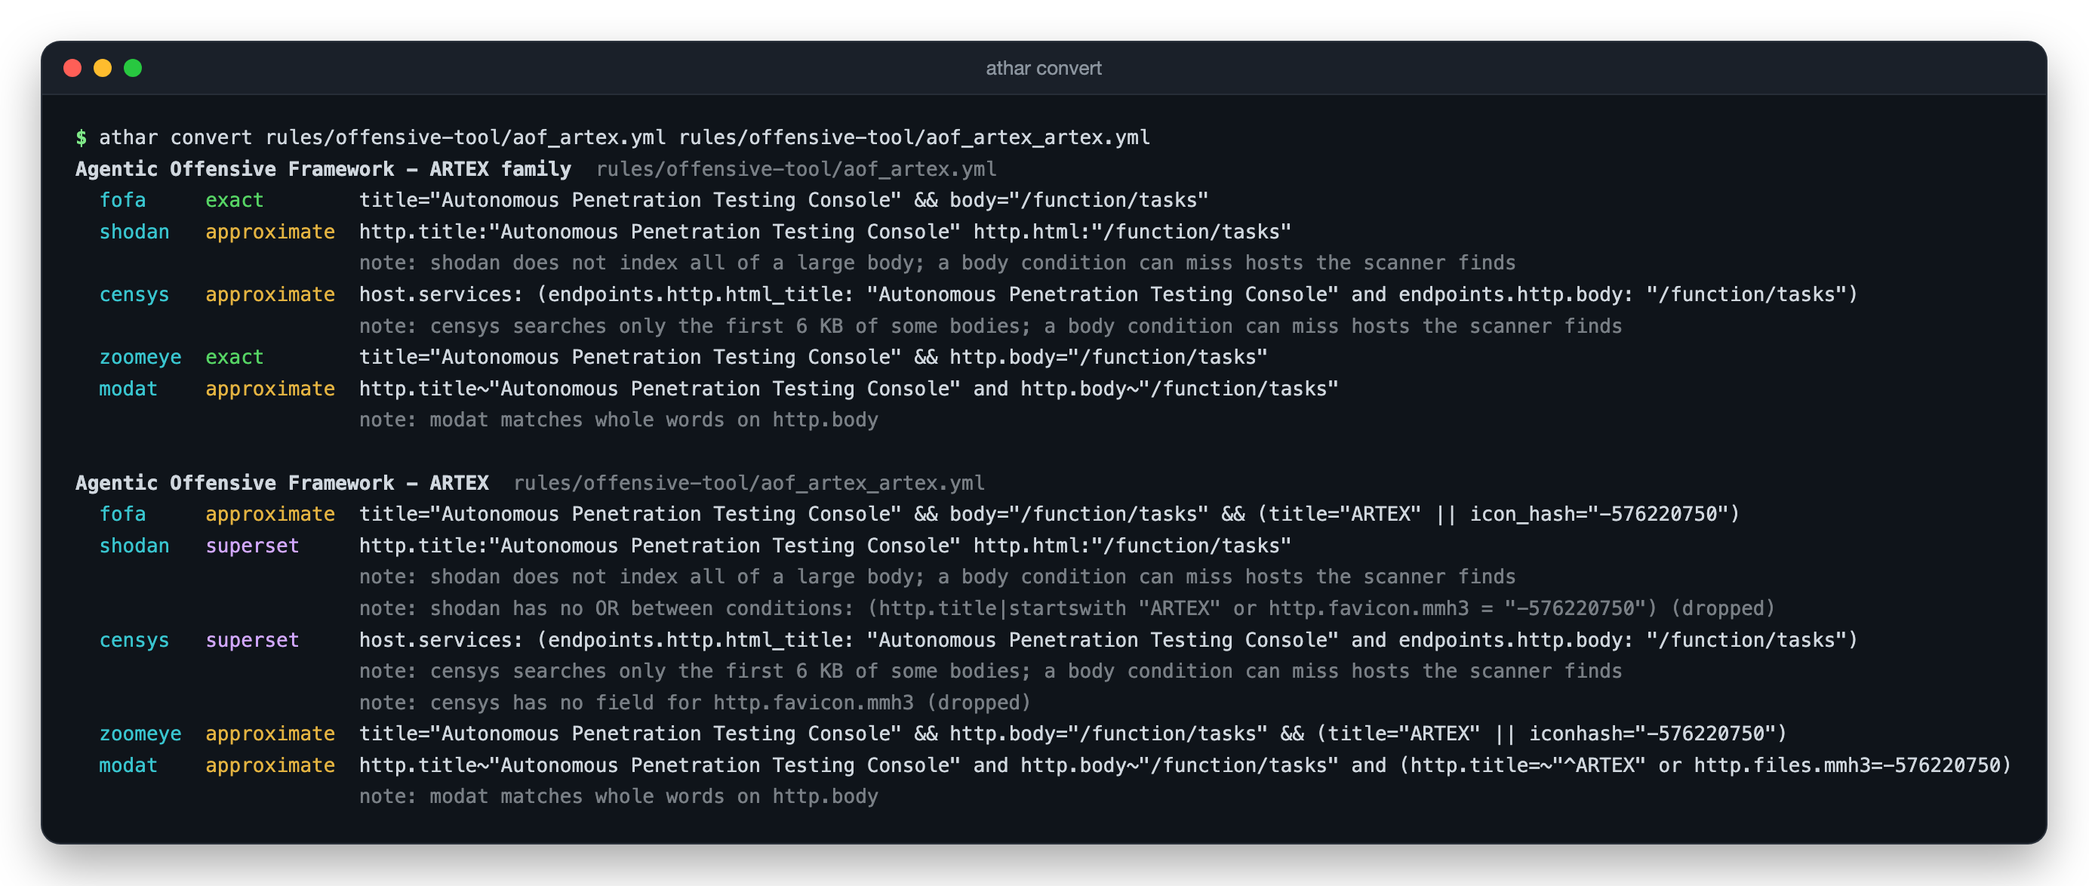
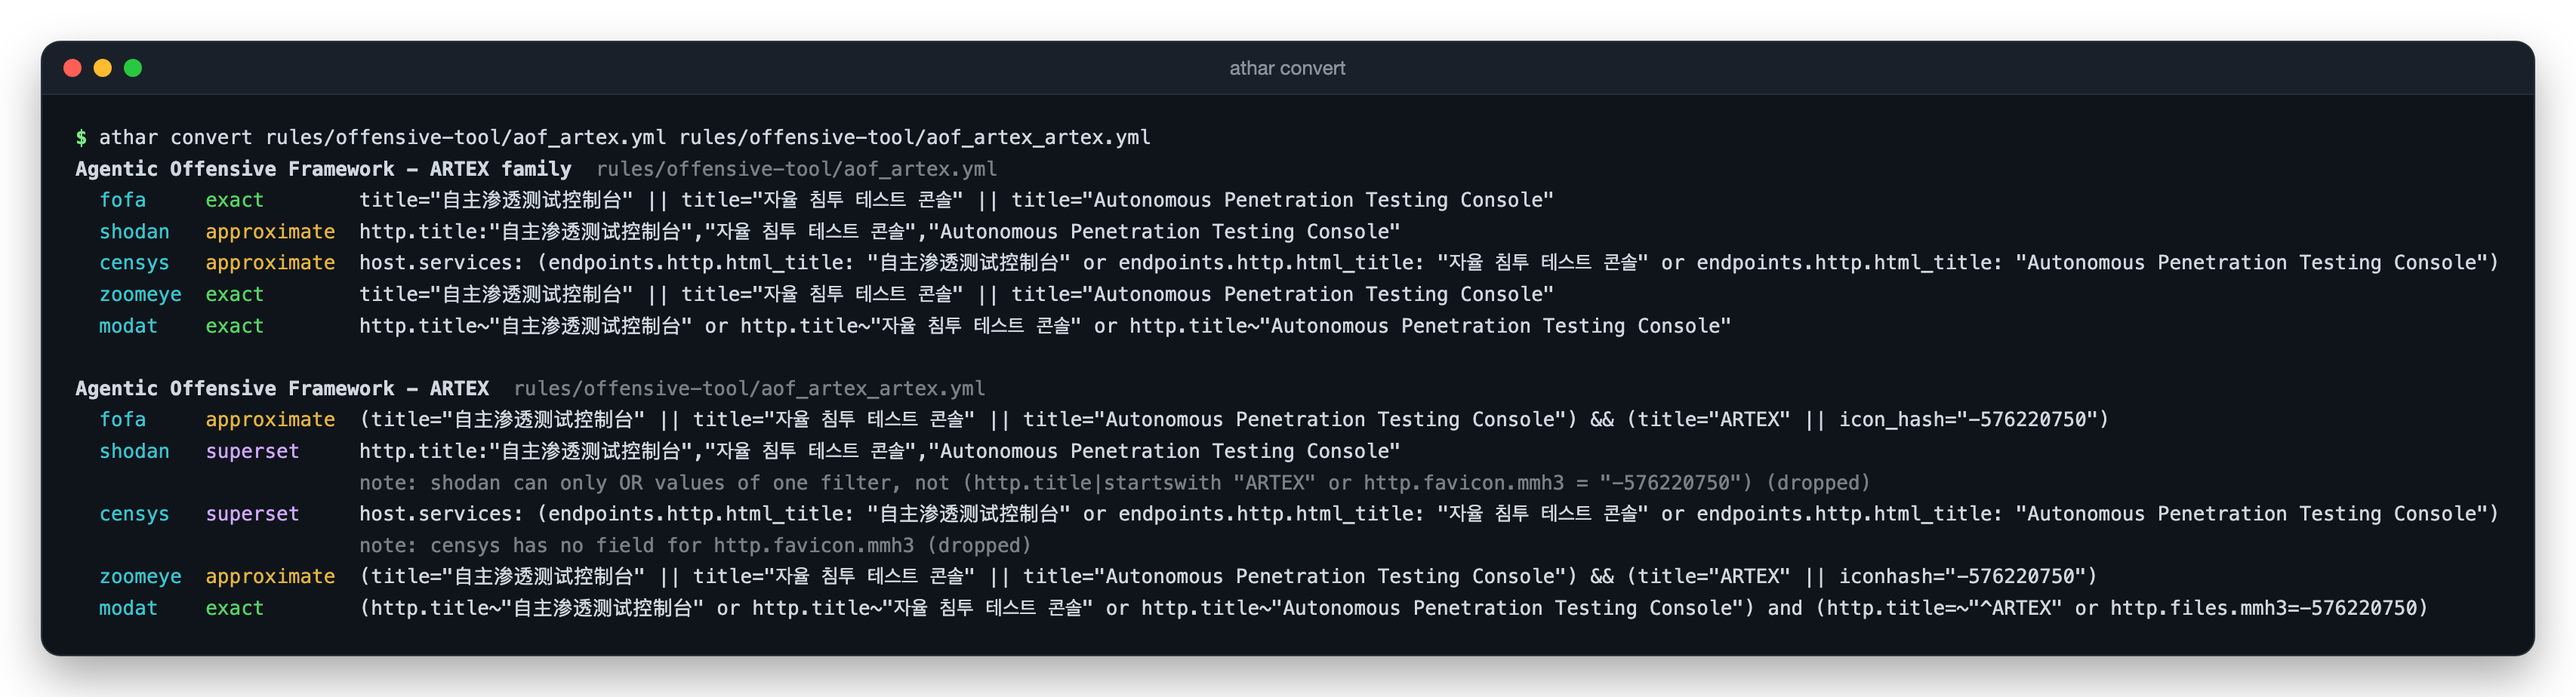
Adapt convert to the localized ARTEX rules
- Shodan: an OR of positive values of one filter becomes a value list,
  http.title:"a","b", which Shodan reads as a or b (checked on
  shodan.io: English title 292, Chinese 2,847, both together 3,139).
  The localized family rule converts again instead of being unsupported
- Converter tests use fixed copies of the spec-example rules, so rule
  edits no longer break them; a smoke test converts every repo rule
- README: convert screenshot for the current rules; the platform
  results are labelled as the earlier title-and-route query; current
  verify and convert example output

Changed region(s): [[0.0, 0.0303, 0.9942, 0.9697]]

diff --git a/cli/internal/convert/convert_test.go b/cli/internal/convert/convert_test.go
@@ -25,14 +25,41 @@ func ruleFrom(t *testing.T, detection string) *rule.Rule {
 	return r
 }
 
-func repoRule(t *testing.T, name string) *rule.Rule {
-	t.Helper()
-	r, err := rule.Load("../../../rules/offensive-tool/" + name)
-	if err != nil {
-		t.Fatal(err)
-	}
-	return r
-}
+// Fixed copies of the rules in spec section 10, so edits to the live rules
+// don't change what these tests check.
+const (
+	specFamily = `
+selection_title:
+  http.title|contains: 'Autonomous Penetration Testing Console'
+selection_route:
+  http.body|contains: '/function/tasks'
+condition: selection_title and selection_route
+`
+	specVariant = `
+selection_title:
+  http.title|contains: 'Autonomous Penetration Testing Console'
+selection_route:
+  http.body|contains: '/function/tasks'
+selection_brand:
+  http.title|startswith: 'ARTEX'
+selection_icon:
+  http.favicon.mmh3: -576220750
+condition: selection_title and selection_route and (selection_brand or selection_icon)
+`
+	specBasicAuth = `
+selection_realm:
+  http.headers.www-authenticate: 'Basic realm="ARTEX", charset="UTF-8"'
+condition: selection_realm
+`
+	localizedFamily = `
+selection_title:
+  http.title|contains:
+    - '自主渗透测试控制台'
+    - '자율 침투 테스트 콘솔'
+    - 'Autonomous Penetration Testing Console'
+condition: selection_title
+`
+)
 
 type want struct {
 	query string
@@ -47,28 +74,28 @@ func check(t *testing.T, r *rule.Rule, cases map[string]want) {
 			t.Fatalf("%s: %v", engine, err)
 		}
 		if res.Query != w.query || res.Fidelity != w.fid {
-			t.Errorf("%s %s:\n got  [%s] %s\nwant [%s] %s\nnotes: %v", r.Path, engine, res.Fidelity, res.Query, w.fid, w.query, res.Notes)
+			t.Errorf("%s:\n got  [%s] %s\nwant [%s] %s\nnotes: %v", engine, res.Fidelity, res.Query, w.fid, w.query, res.Notes)
 		}
 	}
 }
 
 // The family and variant conversions in spec section 10.
 func TestSpecExamples(t *testing.T) {
-	check(t, repoRule(t, "aof_artex.yml"), map[string]want{
+	check(t, ruleFrom(t, specFamily), map[string]want{
 		"fofa":    {`title="Autonomous Penetration Testing Console" && body="/function/tasks"`, Exact},
 		"shodan":  {`http.title:"Autonomous Penetration Testing Console" http.html:"/function/tasks"`, Approximate},
 		"censys":  {`host.services: (endpoints.http.html_title: "Autonomous Penetration Testing Console" and endpoints.http.body: "/function/tasks")`, Approximate},
 		"zoomeye": {`title="Autonomous Penetration Testing Console" && http.body="/function/tasks"`, Exact},
 		"modat":   {`http.title~"Autonomous Penetration Testing Console" and http.body~"/function/tasks"`, Approximate},
 	})
-	check(t, repoRule(t, "aof_artex_artex.yml"), map[string]want{
+	check(t, ruleFrom(t, specVariant), map[string]want{
 		"fofa":    {`title="Autonomous Penetration Testing Console" && body="/function/tasks" && (title="ARTEX" || icon_hash="-576220750")`, Approximate},
 		"shodan":  {`http.title:"Autonomous Penetration Testing Console" http.html:"/function/tasks"`, Superset},
 		"censys":  {`host.services: (endpoints.http.html_title: "Autonomous Penetration Testing Console" and endpoints.http.body: "/function/tasks")`, Superset},
 		"zoomeye": {`title="Autonomous Penetration Testing Console" && http.body="/function/tasks" && (title="ARTEX" || iconhash="-576220750")`, Approximate},
 		"modat":   {`http.title~"Autonomous Penetration Testing Console" and http.body~"/function/tasks" and (http.title=~"^ARTEX" or http.files.mmh3=-576220750)`, Approximate},
 	})
-	check(t, repoRule(t, "aof_artex_basic_auth.yml"), map[string]want{
+	check(t, ruleFrom(t, specBasicAuth), map[string]want{
 		"modat":   {`http.headers: (key = "Www-Authenticate" and value = "Basic realm=\"ARTEX\", charset=\"UTF-8\"")`, Exact},
 		"fofa":    {`header="Basic realm=\"ARTEX\", charset=\"UTF-8\""`, Approximate},
 		"zoomeye": {`http.header="Basic realm=\"ARTEX\", charset=\"UTF-8\""`, Approximate},
@@ -191,7 +218,45 @@ condition: sel
 }
 
 func TestUnknownEngine(t *testing.T) {
-	if _, err := Convert(repoRule(t, "aof_artex.yml"), "bing"); err == nil {
+	if _, err := Convert(ruleFrom(t, specFamily), "bing"); err == nil {
 		t.Error("want error for unknown engine")
+	}
+}
+
+// Shodan has no OR, but lists several values of one filter with commas:
+// http.title:"a","b" finds a or b (checked on shodan.io, 2026-11-25).
+func TestShodanValueLists(t *testing.T) {
+	check(t, ruleFrom(t, localizedFamily), map[string]want{
+		"shodan": {`http.title:"自主渗透测试控制台","자율 침투 테스트 콘솔","Autonomous Penetration Testing Console"`, Approximate},
+		"fofa":   {`title="自主渗透测试控制台" || title="자율 침투 테스트 콘솔" || title="Autonomous Penetration Testing Console"`, Exact},
+	})
+	// Different filters still can't be ORed on Shodan.
+	r := ruleFrom(t, "a:\n  http.title|contains: x\nb:\n  http.favicon.mmh3: 1\nport:\n  service.port: 443\ncondition: (a or b) and port\n")
+	check(t, r, map[string]want{"shodan": {"port:443", Superset}})
+	// A negated value is not listed.
+	r = ruleFrom(t, "a:\n  http.title|contains: x\nb:\n  http.title|contains: y\nport:\n  service.port: 443\ncondition: port and (a or not b)\n")
+	check(t, r, map[string]want{"shodan": {"port:443", Superset}})
+}
+
+// Every rule in the repository converts for every engine without error.
+func TestRepositoryRules(t *testing.T) {
+	files, err := rule.Files([]string{"../../../rules"})
+	if err != nil {
+		t.Fatal(err)
+	}
+	for _, f := range files {
+		r, err := rule.Load(f)
+		if err != nil {
+			t.Fatal(err)
+		}
+		for _, engine := range Engines {
+			res, err := Convert(r, engine)
+			if err != nil {
+				t.Errorf("%s %s: %v", f, engine, err)
+			}
+			if (res.Query == "") != (res.Fidelity == Unsupported) {
+				t.Errorf("%s %s: query %q with fidelity %s", f, engine, res.Query, res.Fidelity)
+			}
+		}
 	}
 }

diff --git a/cli/internal/convert/convert.go b/cli/internal/convert/convert.go
@@ -92,8 +92,16 @@ type term struct {
 	negated bool
 }
 
-// lit is a term an engine could express, already rendered.
-type lit struct{ s string }
+// lit is a term an engine could express, already rendered. key and val are
+// set by engines that can OR several values of one field (see keyer).
+type lit struct{ s, key, val string }
+
+// keyer is implemented by engines without a general OR that can still list
+// several values for one field, as Shodan does with http.title:"a","b".
+type keyer interface {
+	key(t term) (field, value string)
+	list(field string, values []string) string
+}
 
 func build(r *rule.Rule) (expr, error) {
 	cond, _ := r.Detection["condition"].(string)
@@ -296,7 +304,11 @@ func (c *converter) lower(e expr) expr {
 			c.notes = append(c.notes, note)
 		}
 		c.worse(f)
-		return lit{s}
+		l := lit{s: s}
+		if k, ok := c.b.(keyer); ok {
+			l.key, l.val = k.key(x)
+		}
+		return l
 	case andExpr:
 		var out andExpr
 		for _, ch := range x {
@@ -344,14 +356,38 @@ func (c *converter) lower(e expr) expr {
 			return out[0]
 		}
 		if !c.b.canOr() {
+			if merged, ok := c.sameField(out); ok {
+				return merged
+			}
 			c.notes = c.notes[:start]
-			return c.drop(fmt.Sprintf("%s has no OR between conditions: %s", c.engine, describeExpr(x)))
+			return c.drop(fmt.Sprintf("%s can only OR values of one filter, not %s", c.engine, describeExpr(x)))
 		}
 		return out
 	case boolExpr:
 		return x
 	}
 	return boolExpr(true)
+}
+
+// sameField merges an OR of values of one field into the engine's value
+// list, if the engine has one.
+func (c *converter) sameField(alts orExpr) (expr, bool) {
+	k, ok := c.b.(keyer)
+	if !ok {
+		return nil, false
+	}
+	var key string
+	var vals []string
+	for _, a := range alts {
+		l, ok := a.(lit)
+		if !ok || l.key == "" || (key != "" && l.key != key) {
+			return nil, false
+		}
+		key = l.key
+		vals = append(vals, l.val)
+	}
+	s := k.list(key, vals)
+	return lit{s: s, key: key, val: strings.Join(vals, ",")}, true
 }
 
 func (c *converter) render(e expr, nested bool) string {

diff --git a/cli/cmd/athar/main_test.go b/cli/cmd/athar/main_test.go
@@ -201,12 +201,33 @@ func TestScanUsageErrors(t *testing.T) {
 	}
 }
 
+// convertFixture is the family rule from spec section 10, kept here so
+// edits to the live rules don't change the expected output.
+const convertFixture = `
+title: Agentic Offensive Framework - ARTEX family
+id: 0ce69e91-baee-4475-81ee-4b8eca1a6c3b
+status: experimental
+target: { protocol: http }
+detection:
+  selection_title:
+    http.title|contains: 'Autonomous Penetration Testing Console'
+  selection_route:
+    http.body|contains: '/function/tasks'
+  condition: selection_title and selection_route
+identifies: { family: artex, category: offensive-tool }
+confidence: high
+`
+
 func TestConvertCommand(t *testing.T) {
-	code, out, errOut := runCLI("convert", "-t", "fofa,shodan", "../../../rules/offensive-tool/aof_artex.yml")
+	fixture := filepath.Join(t.TempDir(), "family.yml")
+	if err := os.WriteFile(fixture, []byte(convertFixture), 0o644); err != nil {
+		t.Fatal(err)
+	}
+	code, out, errOut := runCLI("convert", "-t", "fofa,shodan", fixture)
 	if code != exitOK {
 		t.Fatalf("exit %d\n%s", code, errOut)
 	}
-	want := "Agentic Offensive Framework - ARTEX family  ../../../rules/offensive-tool/aof_artex.yml\n" +
+	want := "Agentic Offensive Framework - ARTEX family  " + fixture + "\n" +
 		"  fofa     exact        title=\"Autonomous Penetration Testing Console\" && body=\"/function/tasks\"\n" +
 		"  shodan   approximate  http.title:\"Autonomous Penetration Testing Console\" http.html:\"/function/tasks\"\n" +
 		"                        note: shodan does not index all of a large body; a body condition can miss hosts the scanner finds\n"

diff --git a/cli/internal/convert/backends.go b/cli/internal/convert/backends.go
@@ -322,6 +322,35 @@ func (shodan) term(t term) (string, Fidelity, string, bool) {
 	return neg + spec.name + ":" + quote(t.value), Approximate, note, true
 }
 
+// key lets an OR of positive values of one filter become a comma list,
+// http.title:"a","b", which Shodan reads as a or b.
+func (shodan) key(t term) (string, string) {
+	if t.negated || t.field == "" || t.op == "re" || t.wild || t.hex {
+		return "", ""
+	}
+	spec, ok := shodanFields[t.field]
+	if !ok {
+		return "", ""
+	}
+	switch spec.kind {
+	case words:
+		return spec.name, quote(t.value)
+	case exactOnly:
+		if t.op != "eq" {
+			return "", ""
+		}
+		if shodanBare.MatchString(t.value) {
+			return spec.name, t.value
+		}
+		return spec.name, quote(t.value)
+	}
+	return "", ""
+}
+
+func (shodan) list(field string, values []string) string {
+	return field + ":" + strings.Join(values, ",")
+}
+
 // ---- Censys Platform ----
 
 type censys struct{}

diff --git a/README.md b/README.md
@@ -204,7 +204,7 @@ Only scan hosts you are allowed to scan. The scanner identifies itself in its HT
 athar convert rules/offensive-tool/aof_artex.yml rules/offensive-tool/aof_artex_artex.yml
 ```
 
-![athar convert output for the ARTEX family and ARTEX rules: one query per engine, each labelled exact, approximate or superset, with notes on what was lost](docs/images/athar-convert.png)
+![athar convert output for the ARTEX family and ARTEX rules: one query per engine for the Chinese, Korean and English titles, each labelled exact, approximate or superset, with notes on what was lost](docs/images/athar-convert.png)
 
 Every query carries a fidelity label, and the notes say what was lost and why:
 
@@ -212,18 +212,20 @@ Every query carries a fidelity label, and the notes say what was lost and why:
 | --- | --- |
 | `exact` | Same result set as the rule on the engine's data. |
 | `approximate` | Same intent, looser operator: tokenised text, a prefix searched as a substring, case-sensitive equality. |
-| `superset` | Conditions the engine can't express were dropped, so the query can only return more hosts, never fewer. The ARTEX rule's `title starts with ARTEX or ARTEX favicon` has no Shodan form, because Shodan has no OR. |
+| `superset` | Conditions the engine can't express were dropped, so the query can only return more hosts, never fewer. Shodan can OR several values of one filter (`http.title:"a","b"`) but not different filters, so the ARTEX rule's `title starts with ARTEX or ARTEX favicon` is dropped there. |
 | `unsupported` | Nothing meaningful is left, and no query is printed. |
 
-**The family rule on the platforms**, 25 November 2026:
+**One converted query on the platforms.** On 25 November 2026, before the family rule learned the Chinese and Korean titles, it required the English title and the `/function/tasks` route. Its converted queries, run on each platform:
 
-| Platform | Result of the converted query |
+| Platform | Result |
 | --- | --- |
 | Censys | 243 hosts. Censys's own software label `artex` is on 239 of them. |
 | ZoomEye | About 525 results. |
 | Modat Magnify | 1,433 services. Modat's own product label `Artex` is on about 1,390 of them. Most run on port 8787. |
 | Shodan | No results. The route sits in an inline script near the end of a 12 KB page, which Shodan's `http.html` index does not reach. The title condition alone finds 292 hosts. |
 | FOFA | Not tested yet: searching `body` needs a registered FOFA account. |
+
+The localized titles matter: on Shodan the Chinese title alone finds 2,847 hosts, the English one 292, and the family rule's current query `http.title:"自主渗透测试控制台","자율 침투 테스트 콘솔","Autonomous Penetration Testing Console"` covers all three languages.
 
 The engines disagree because each indexes pages differently. That is why the scanner, not the query, decides what matches: run `athar scan` on the candidates to confirm them.
 
@@ -265,11 +267,13 @@ athar verify rules/
 ```
 
 ```text
-rules/offensive-tool/aof_artex.yml             2/2 tests passed
-rules/offensive-tool/aof_artex_artex.yml       3/3 tests passed
-rules/offensive-tool/aof_artex_basic_auth.yml  2/2 tests passed
+rules/offensive-tool/aof_artex.yml                7/7 tests passed
+rules/offensive-tool/aof_artex_antifox.yml        4/4 tests passed
+rules/offensive-tool/aof_artex_artex.yml          5/5 tests passed
+rules/offensive-tool/aof_artex_artex_favicon.yml  3/3 tests passed
+rules/offensive-tool/aof_artex_basic_auth.yml     2/2 tests passed
 
-3 rules, 0 failed; 7/7 tests passed; 0 errors, 0 warnings
+5 rules, 0 failed; 21/21 tests passed; 0 errors, 0 warnings
 ```
 
 Use it while you write a rule. Here a test response lacks the body string the rule requires, and the rule has no negative test yet:

diff --git a/cli/README.md b/cli/README.md
@@ -57,20 +57,21 @@ Example session (`verify`, `scan` and `convert` output is real; `match` is illus
 
 ```text
 $ athar verify rules/
-rules/offensive-tool/aof_artex.yml             2/2 tests passed
-rules/offensive-tool/aof_artex_artex.yml       3/3 tests passed
-rules/offensive-tool/aof_artex_basic_auth.yml  2/2 tests passed
+rules/offensive-tool/aof_artex.yml                7/7 tests passed
+rules/offensive-tool/aof_artex_antifox.yml        4/4 tests passed
+rules/offensive-tool/aof_artex_artex.yml          5/5 tests passed
+rules/offensive-tool/aof_artex_artex_favicon.yml  3/3 tests passed
+rules/offensive-tool/aof_artex_basic_auth.yml     2/2 tests passed
 
-3 rules, 0 failed; 7/7 tests passed; 0 errors, 0 warnings
+5 rules, 0 failed; 21/21 tests passed; 0 errors, 0 warnings
 
 $ athar scan -r rules/ -json -p 80,443,18080 127.0.0.0/30 > matches.jsonl
 athar scan: 4 hosts, 12 checks, 1 open, 1 match in 3.1s
 
 $ athar convert -t fofa,modat rules/offensive-tool/aof_artex.yml
 Agentic Offensive Framework - ARTEX family  rules/offensive-tool/aof_artex.yml
-  fofa     exact        title="Autonomous Penetration Testing Console" && body="/function/tasks"
-  modat    approximate  http.title~"Autonomous Penetration Testing Console" and http.body~"/function/tasks"
-                        note: modat matches whole words on http.body
+  fofa     exact        title="自主渗透测试控制台" || title="자율 침투 테스트 콘솔" || title="Autonomous Penetration Testing Console"
+  modat    exact        http.title~"自主渗透测试控制台" or http.title~"자율 침투 테스트 콘솔" or http.title~"Autonomous Penetration Testing Console"
 
 $ athar match -r rules/ --format fofa fofa-export.json > candidates.jsonl
 ```
